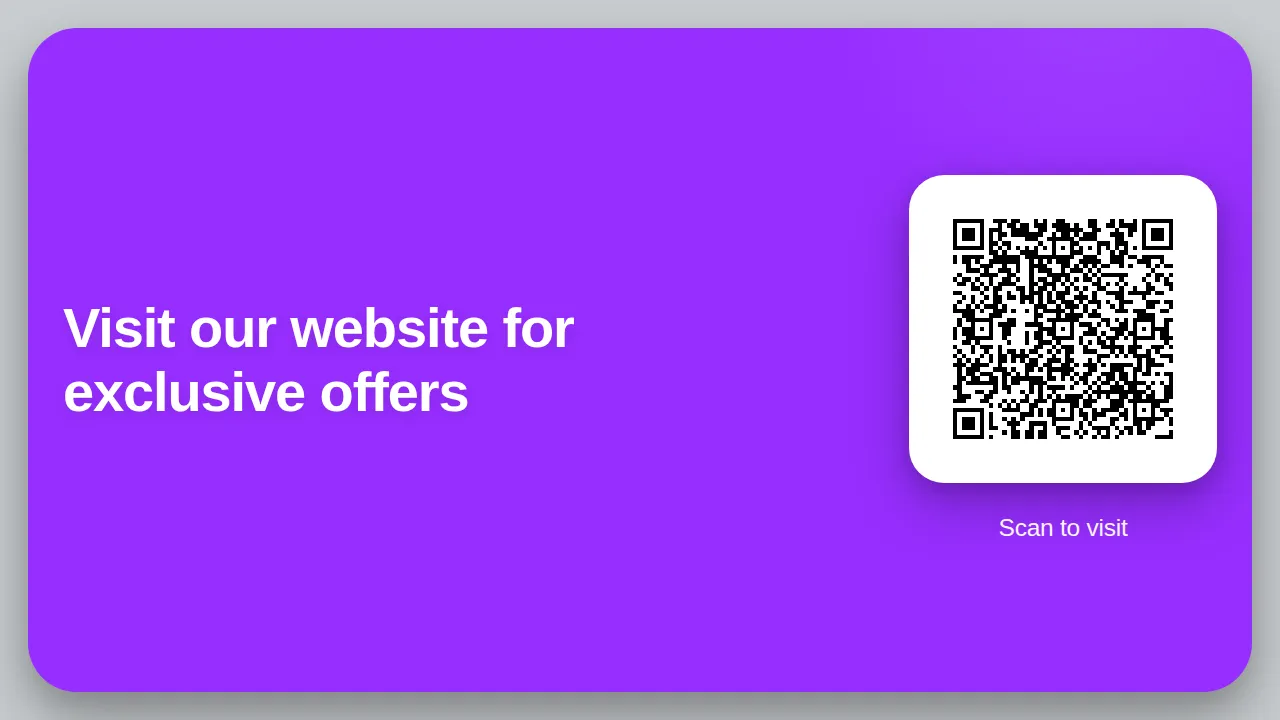
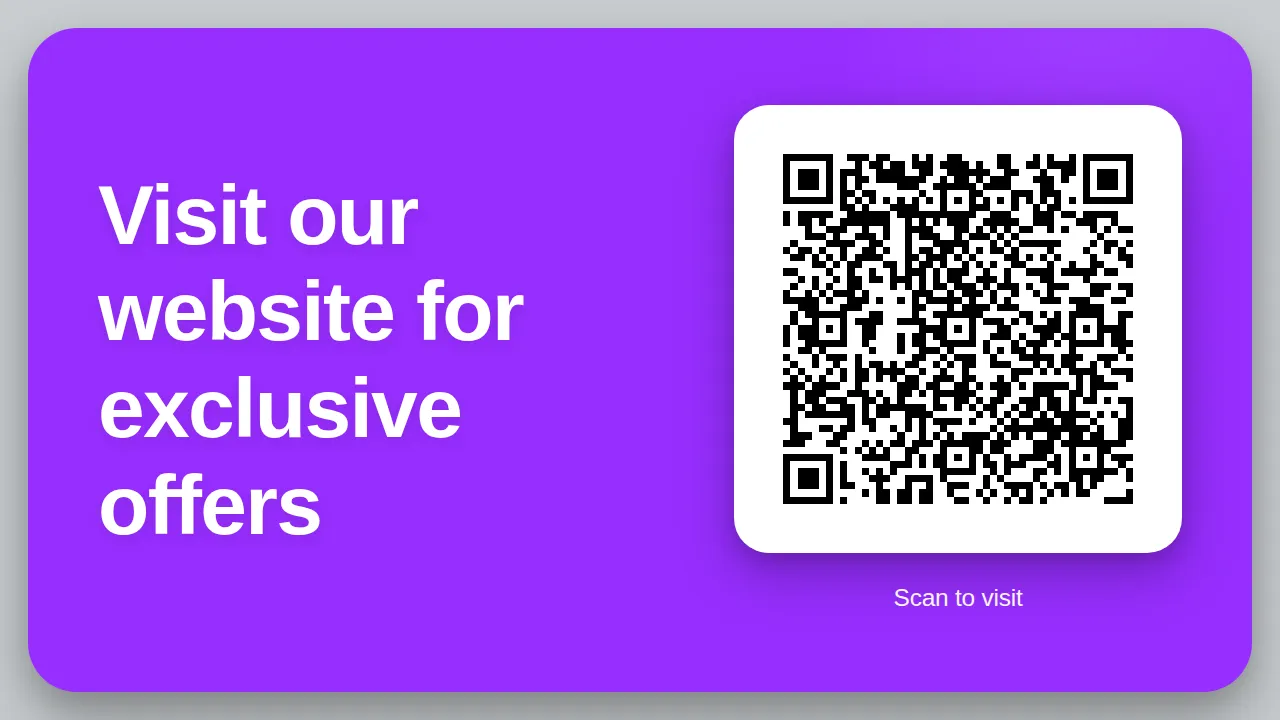
feat: adopt Tailwind CSS utility classes for styling
Rework index.html to use Tailwind utility classes instead of custom CSS
classes, keeping visual appearance and behavior unchanged. Slim the CSS
entry point down to just the design-system import. Bump
@screenly/edge-apps to ^1.3.0 for upcoming Tailwind CSS support.
Regenerate screenshots to reflect the change.

diff --git a/src/css/style.css b/src/css/style.css
@@ -1,251 +1,5 @@
-@import 'tailwindcss';
+@layer theme, base, utilities;
 
-/* Reset and base styles */
-* {
-  margin: 0;
-  padding: 0;
-  box-sizing: border-box;
-}
-
-html {
-  font-size: 14px;
-}
-
-body {
-  font-family:
-    -apple-system, BlinkMacSystemFont, 'Segoe UI', Roboto, 'Helvetica Neue',
-    Arial, sans-serif;
-  height: 100vh;
-  width: 100vw;
-  overflow: hidden;
-  background-color: var(--theme-color-background, #c9cdd0);
-}
-
-/* CSS Custom Properties */
-:root {
-  --theme-color-primary: #972eff;
-  --theme-color-tertiary: #ffffff;
-  --theme-color-background: #c9cdd0;
-}
-
-/* Main container */
-.container {
-  display: flex;
-  justify-content: center;
-  align-items: center;
-  height: 100%;
-  width: 100%;
-  padding: 2rem;
-}
-
-/* QR section card */
-.qr-section {
-  display: flex;
-  flex-direction: row;
-  justify-content: space-between;
-  align-items: center;
-  gap: 5rem;
-  width: 100%;
-  max-width: 90rem;
-  height: 100%;
-  max-height: 50rem;
-  padding: 5rem;
-  background: var(--theme-color-primary);
-  border-radius: 3.5rem;
-  color: var(--theme-color-tertiary);
-  box-shadow:
-    0 2.5rem 5rem rgba(0, 0, 0, 0.25),
-    0 1rem 2rem rgba(0, 0, 0, 0.15);
-  position: relative;
-  overflow: hidden;
-}
-
-/* Subtle background pattern */
-.qr-section::before {
-  content: '';
-  position: absolute;
-  top: -50%;
-  right: -10%;
-  width: 40rem;
-  height: 40rem;
-  background: radial-gradient(
-    circle,
-    rgba(255, 255, 255, 0.08) 0%,
-    transparent 70%
-  );
-  border-radius: 50%;
-  pointer-events: none;
-}
-
-/* Text content section */
-.text-content {
-  flex: 1;
-  display: flex;
-  flex-direction: column;
-  justify-content: center;
-  max-width: 45rem;
-  position: relative;
-  z-index: 1;
-}
-
-/* Headline (main message) */
-.qr-section h1 {
-  font-size: 6rem;
-  font-weight: 700;
-  line-height: 1.15;
-  margin: 0;
-  letter-spacing: -0.02em;
-  text-shadow: 0 0.25rem 1rem rgba(0, 0, 0, 0.1);
-}
-
-/* QR container wrapper */
-.qr-container {
-  display: flex;
-  flex-direction: column;
-  align-items: center;
-  gap: 2rem;
-  flex-shrink: 0;
-  position: relative;
-  z-index: 1;
-}
-
-/* QR code box */
-#qr-code {
-  display: flex;
-  justify-content: center;
-  align-items: center;
-  width: 32rem;
-  height: 32rem;
-  padding: 2.5rem;
-  background-color: white;
-  border-radius: 2.5rem;
-  box-shadow:
-    0 1.5rem 4rem rgba(0, 0, 0, 0.25),
-    0 0.5rem 1.5rem rgba(0, 0, 0, 0.15);
-}
-
-#qr-code svg {
-  width: 100%;
-  height: 100%;
-  display: block;
-}
-
-/* Call to action (instruction) */
-#cta {
-  font-size: 1.75rem;
-  line-height: 1.4;
-  margin: 0;
-  opacity: 0.95;
-  font-weight: 500;
-  letter-spacing: -0.01em;
-  text-align: center;
-}
-
-/* Responsive adjustments */
-@media screen and (max-width: 1280px) and (orientation: landscape) {
-  .qr-section {
-    padding: 2.5rem;
-    gap: 2.5rem;
-  }
-
-  .qr-section h1 {
-    font-size: 4rem;
-  }
-
-  .qr-section p {
-    font-size: 1.4rem;
-  }
-
-  #qr-code {
-    width: 22rem;
-    height: 22rem;
-  }
-}
-
-@media screen and (max-width: 800px) and (orientation: landscape) {
-  .qr-section {
-    padding: 2rem;
-    gap: 2rem;
-  }
-
-  .qr-section h1 {
-    font-size: 2.75rem;
-  }
-
-  .qr-section p {
-    font-size: 1.15rem;
-  }
-
-  #qr-code {
-    width: 18rem;
-    height: 18rem;
-    padding: 1.5rem;
-  }
-}
-
-@media screen and (orientation: portrait) {
-  .qr-section {
-    flex-direction: column;
-    gap: 3rem;
-    max-width: 50rem;
-  }
-
-  .text-content {
-    text-align: center;
-    max-width: 100%;
-  }
-
-  .qr-section h1 {
-    font-size: 4.5rem;
-  }
-
-  .qr-section p {
-    font-size: 1.6rem;
-  }
-
-  #qr-code {
-    width: 28rem;
-    height: 28rem;
-  }
-}
-
-@media screen and (max-width: 720px) and (orientation: portrait) {
-  .qr-section {
-    padding: 2rem;
-    gap: 2rem;
-  }
-
-  .qr-section h1 {
-    font-size: 3.5rem;
-  }
-
-  .qr-section p {
-    font-size: 1.4rem;
-  }
-
-  #qr-code {
-    width: 22rem;
-    height: 22rem;
-  }
-}
-
-@media screen and (max-width: 480px) and (orientation: portrait) {
-  .qr-section {
-    padding: 1.5rem;
-    gap: 1.5rem;
-  }
-
-  .qr-section h1 {
-    font-size: 2.5rem;
-  }
-
-  .qr-section p {
-    font-size: 1.15rem;
-  }
-
-  #qr-code {
-    width: 18rem;
-    height: 18rem;
-    padding: 1rem;
-  }
-}
+@import 'tailwindcss/theme.css' layer(theme);
+@import '@screenly/edge-apps/styles' layer(base);
+@import 'tailwindcss/utilities.css' layer(utilities);

diff --git a/index.html b/index.html
@@ -1,20 +1,37 @@
 <!doctype html>
-<html lang="en">
+<html lang="en" class="text-[14px]">
   <head>
     <meta charset="UTF-8" />
     <meta name="viewport" content="width=device-width, initial-scale=1.0" />
     <title>QR Code - Screenly Edge App</title>
     <script src="screenly.js?version=1"></script>
   </head>
-  <body>
-    <div class="container max-w-full">
-      <div class="qr-section">
-        <div class="text-content">
-          <h1 id="headline"></h1>
+  <body
+    class="font-[-apple-system,BlinkMacSystemFont,Segoe_UI,Roboto,Helvetica_Neue,Arial,sans-serif] bg-[var(--theme-color-background,#c9cdd0)]"
+  >
+    <div class="flex justify-center items-center h-full w-full max-w-full p-8">
+      <div
+        class="flex flex-row justify-between items-center gap-20 w-full max-w-[90rem] h-full max-h-[50rem] p-20 rounded-[3.5rem] bg-[var(--theme-color-primary,#972eff)] text-[var(--theme-color-tertiary,#ffffff)] shadow-[0_2.5rem_5rem_rgba(0,0,0,0.25),0_1rem_2rem_rgba(0,0,0,0.15)] relative overflow-hidden before:content-[''] before:absolute before:top-[-50%] before:right-[-10%] before:w-[40rem] before:h-[40rem] before:bg-[radial-gradient(circle,rgba(255,255,255,0.08)_0%,transparent_70%)] before:rounded-full before:pointer-events-none landscape:max-[1280px]:p-10 landscape:max-[1280px]:gap-10 landscape:max-[800px]:p-8 landscape:max-[800px]:gap-8 portrait:flex-col portrait:gap-12 portrait:max-w-[50rem] max-[720px]:portrait:p-8 max-[720px]:portrait:gap-8 max-[480px]:portrait:p-6 max-[480px]:portrait:gap-6"
+      >
+        <div
+          class="flex-1 flex flex-col justify-center max-w-[45rem] relative z-[1] portrait:text-center portrait:max-w-full"
+        >
+          <h1
+            id="headline"
+            class="text-[6rem] font-bold leading-[1.15] m-0 tracking-[-0.02em] [text-shadow:0_0.25rem_1rem_rgba(0,0,0,0.1)] landscape:max-[1280px]:text-[4rem] landscape:max-[800px]:text-[2.75rem] portrait:text-[4.5rem] max-[720px]:portrait:text-[3.5rem] max-[480px]:portrait:text-[2.5rem]"
+          ></h1>
         </div>
-        <div class="qr-container">
-          <div id="qr-code"></div>
-          <p id="cta"></p>
+        <div
+          class="flex flex-col items-center gap-8 shrink-0 relative z-[1]"
+        >
+          <div
+            id="qr-code"
+            class="flex justify-center items-center w-[32rem] h-[32rem] p-10 bg-white rounded-[2.5rem] shadow-[0_1.5rem_4rem_rgba(0,0,0,0.25),0_0.5rem_1.5rem_rgba(0,0,0,0.15)] [&>svg]:w-full [&>svg]:h-full [&>svg]:block landscape:max-[1280px]:w-[22rem] landscape:max-[1280px]:h-[22rem] landscape:max-[800px]:w-[18rem] landscape:max-[800px]:h-[18rem] landscape:max-[800px]:p-6 portrait:w-[28rem] portrait:h-[28rem] max-[720px]:portrait:w-[22rem] max-[720px]:portrait:h-[22rem] max-[480px]:portrait:w-[18rem] max-[480px]:portrait:h-[18rem] max-[480px]:portrait:p-4"
+          ></div>
+          <p
+            id="cta"
+            class="text-[1.75rem] leading-[1.4] m-0 opacity-95 font-medium tracking-[-0.01em] text-center landscape:max-[1280px]:text-[1.4rem] landscape:max-[800px]:text-[1.15rem] portrait:text-[1.6rem] max-[720px]:portrait:text-[1.4rem] max-[480px]:portrait:text-[1.15rem]"
+          ></p>
         </div>
       </div>
     </div>
